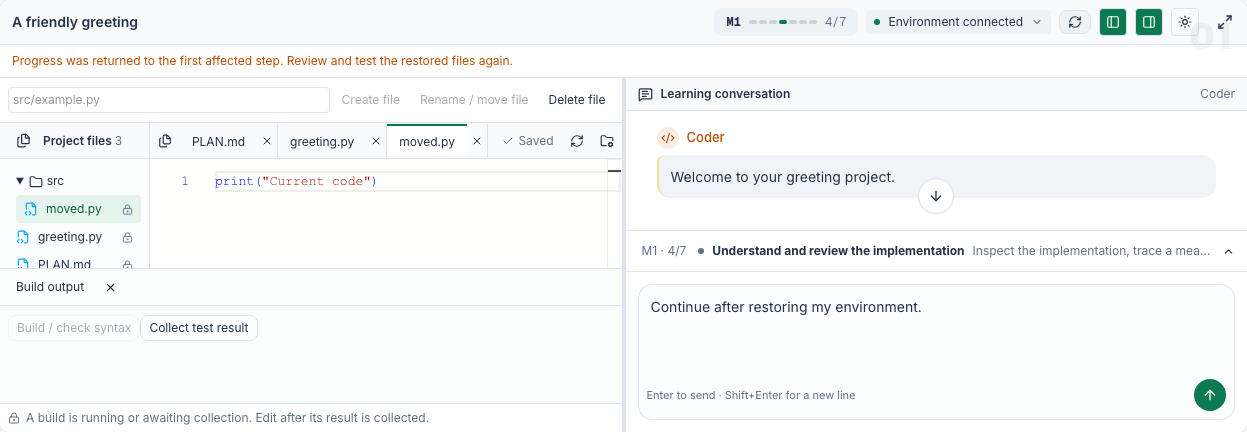
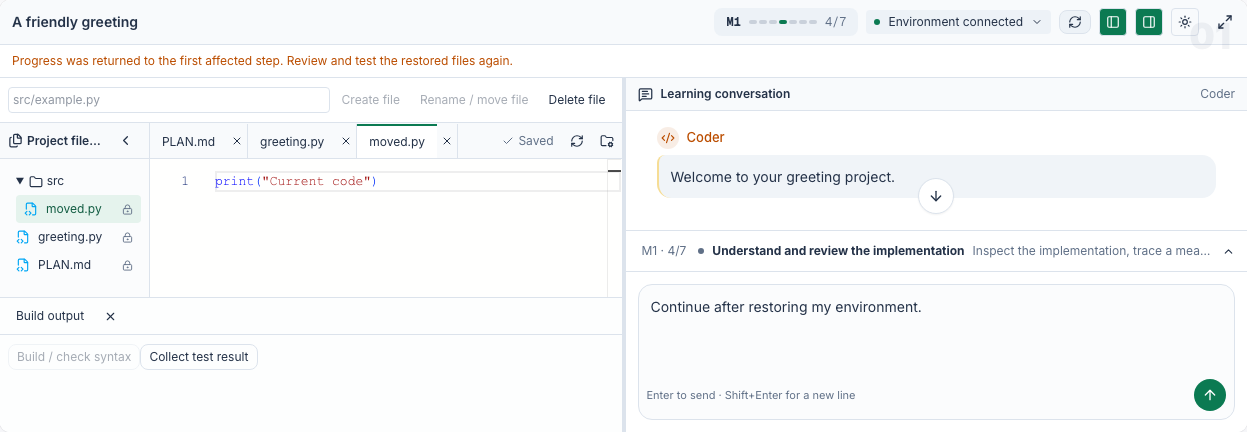
fix(pbl): show editing reasons at cursor and fold file tree

diff --git a/e2e/tests/pbl-v3-workspace.spec.ts b/e2e/tests/pbl-v3-workspace.spec.ts
@@ -465,7 +465,12 @@ test('installed sample opens in the normal classroom and preserves progress afte
   const savesBeforeSwitching = calls.filter((c) => c.type === 'save').length;
   for (let i = 0; i < 2; i++) {
     await page.getByRole('tab', { name: 'PLAN.md', exact: true }).click();
-    await expect(page.getByTestId('pbl-edit-access')).toContainText('PLAN.md is approved');
+    await page.locator('.monaco-editor .view-lines .view-line').first().click();
+    await page.keyboard.press('Backspace');
+    await expect(page.locator('.monaco-editor-overlaymessage')).toContainText(
+      'PLAN.md is approved',
+    );
+    await page.keyboard.press('Escape');
     await page.getByRole('tab', { name: 'greeting.py', exact: true }).click();
     await expect(page.locator('.monaco-editor .view-lines')).toHaveText('print("Saved code")');
   }
@@ -474,12 +479,53 @@ test('installed sample opens in the normal classroom and preserves progress afte
   view.busy = true;
   view.revision++;
   await page.getByRole('button', { name: 'Refresh progress', exact: true }).click();
-  await expect(page.getByTestId('pbl-edit-access')).toContainText('The assistant is working');
+  await page.locator('.monaco-editor .view-lines .view-line').first().click();
+  await page.keyboard.type('x');
+  await expect(page.locator('.monaco-editor-overlaymessage')).toContainText(
+    'The assistant is working',
+  );
+  await expect(page.getByTestId('pbl-edit-access')).toHaveCount(0);
+  await expect(page.locator('.monaco-editor .view-lines')).toHaveText('print("Saved code")');
+  const lockMessage = page.locator('.monaco-editor-overlaymessage');
+  await expect.poll(() => lockMessage.evaluate((el) => getComputedStyle(el).opacity)).toBe('1');
+  await expect(lockMessage).toBeInViewport();
+  expect(
+    await lockMessage.locator('.message').evaluate((el) => {
+      const box = el.getBoundingClientRect();
+      return el.contains(document.elementFromPoint(box.x + box.width / 2, box.y + 3));
+    }),
+  ).toBe(true); // The first-line hint must not be clipped by the resizable panel.
+  await page
+    .getByTestId('pbl-v3-workspace')
+    .screenshot({ path: 'test-results/pbl-v3-readonly.png' });
+  await page.keyboard.press('Escape');
+  await expect(page.locator('.monaco-editor-overlaymessage')).not.toBeVisible();
+  await page.keyboard.type('y');
+  await expect(page.locator('.monaco-editor-overlaymessage')).toContainText(
+    'The assistant is working',
+  );
+  await page.keyboard.press('Escape');
   await expect(page.locator('.monaco-editor textarea').first()).not.toBeEditable();
   view.busy = false;
   view.revision++;
   await page.getByRole('button', { name: 'Refresh progress', exact: true }).click();
   await expect(page.locator('.monaco-editor textarea').first()).toBeEditable();
+  const hideFiles = page.getByRole('button', { name: 'Hide file tree', exact: true });
+  const fileHeader = hideFiles.locator('..');
+  await expect(fileHeader).toContainText('Project files');
+  const editorWidth = (await page.locator('.monaco-editor').boundingBox())!.width;
+  await hideFiles.click();
+  const showFiles = page.getByRole('button', { name: 'Toggle file explorer', exact: true });
+  await expect(showFiles).toBeVisible();
+  await expect
+    .poll(async () => (await page.locator('.monaco-editor').boundingBox())!.width)
+    .toBeGreaterThan(editorWidth);
+  await expect(page.locator('.monaco-editor .view-lines')).toHaveText('print("Saved code")');
+  await expect(page.locator('.monaco-editor textarea').first()).toBeEditable();
+  await showFiles.click();
+  await expect(hideFiles).toBeVisible();
+  await expect(showFiles).toHaveCount(0);
+  expect(calls.filter((c) => c.type === 'save')).toHaveLength(savesBeforeSwitching);
   await page.getByRole('button', { name: 'Manage source files' }).click();
   await page.getByLabel('Project-relative file path').fill('src/new.py');
   let releaseCreate!: () => void;
@@ -530,7 +576,13 @@ test('installed sample opens in the normal classroom and preserves progress afte
   await page.getByRole('button', { name: 'Refresh progress', exact: true }).click();
   await expect(page.locator('.monaco-editor .view-lines')).toHaveText('Unsaved learner work');
   await expect(page.locator('.monaco-editor textarea').first()).not.toBeEditable();
-  await expect(page.getByText('The environment or file changed.', { exact: false })).toBeVisible();
+  await page.locator('.monaco-editor .view-lines .view-line').first().click();
+  await page.keyboard.type('x');
+  await expect(page.locator('.monaco-editor-overlaymessage')).toContainText(
+    'The environment or file changed.',
+  );
+  await expect(page.locator('.monaco-editor .view-lines')).toHaveText('Unsaved learner work');
+  await page.keyboard.press('Escape');
   page.once('dialog', (dialog) => dialog.accept());
   await page.getByRole('button', { name: 'Discard changes and reload' }).click();
   await expect(page.locator('.monaco-editor .view-lines')).toHaveText('print("Current code")');

diff --git a/components/scene-renderers/pbl/v3/workbench-panel.tsx b/components/scene-renderers/pbl/v3/workbench-panel.tsx
@@ -13,8 +13,8 @@ import {
   LoaderCircle,
   Check,
   AlertCircle,
-  LockKeyhole,
-  Pencil,
+  ChevronLeft,
+  PanelLeftOpen,
 } from 'lucide-react';
 import { PendingAction } from './pending-action';
 import { projectEditAccess } from '@/lib/pbl/v3/edit-access';
@@ -89,6 +89,7 @@ export function LearningWorkbenchPanel({
     }
   }, [showEvaluation]);
   const explorer = usePanelRef();
+  const [filesCollapsed, setFilesCollapsed] = useState(false);
   const executionSequence = useRef(0),
     current = useRef(view);
   current.current = view;
@@ -315,24 +316,24 @@ export function LearningWorkbenchPanel({
             minSize="15%"
             maxSize="45%"
             collapsible
+            collapsedSize="0%"
+            onResize={({ asPercentage }) => setFilesCollapsed(asPercentage === 0)}
             className="h-full bg-muted/20"
           >
-            <header className="flex shrink-0 flex-wrap items-center gap-1 border-b pbl-chrome px-2 py-1">
-              <button
-                className={button}
-                aria-label={t('pblV3.ide.hideFiles')}
-                title={t('pblV3.ide.toggleFiles')}
-                onClick={() => {
-                  if (explorer.current?.isCollapsed()) explorer.current.expand();
-                  else explorer.current?.collapse();
-                }}
-              >
-                <Files size={15} />
-              </button>
-              <span className="mr-auto text-xs font-semibold">
+            <header className="flex shrink-0 items-center gap-1 border-b pbl-chrome px-2 py-1">
+              <Files size={15} className="shrink-0" aria-hidden="true" />
+              <span className="mr-auto min-w-0 truncate text-xs font-semibold">
                 {t('pblV3.files')}{' '}
                 <span className="font-normal text-muted-foreground">{view.files.length}</span>
               </span>
+              <button
+                className={button}
+                aria-label={t('pblV3.ide.hideFiles')}
+                title={t('pblV3.ide.hideFiles')}
+                onClick={() => explorer.current?.collapse()}
+              >
+                <ChevronLeft size={15} />
+              </button>
             </header>
             <FileExplorer
               files={view.files}
@@ -350,17 +351,16 @@ export function LearningWorkbenchPanel({
           />
           <Panel id="editor" minSize="45%" className="flex h-full min-w-0 flex-col">
             <div className="pbl-chrome flex min-h-9 shrink-0 items-center border-b">
-              <button
-                className={button}
-                aria-label={t('pblV3.ide.toggleFiles')}
-                onClick={() =>
-                  explorer.current?.isCollapsed()
-                    ? explorer.current.expand()
-                    : explorer.current?.collapse()
-                }
-              >
-                <Files size={14} />
-              </button>
+              {filesCollapsed && (
+                <button
+                  className={button}
+                  aria-label={t('pblV3.ide.toggleFiles')}
+                  title={t('pblV3.ide.toggleFiles')}
+                  onClick={() => explorer.current?.expand()}
+                >
+                  <PanelLeftOpen size={14} />
+                </button>
+              )}
               <div
                 role="tablist"
                 aria-label={t('pblV3.ide.openFiles')}
@@ -452,6 +452,7 @@ export function LearningWorkbenchPanel({
                   path={path}
                   value={buffer.text}
                   readOnly={!canSave}
+                  readOnlyReason={t(`pblV3.editAccess.${editReason}`)}
                   onChange={editor.edit}
                   onSave={save}
                 />
@@ -595,18 +596,6 @@ export function LearningWorkbenchPanel({
           </div>
         </div>
       )}
-      <footer
-        role="status"
-        data-testid="pbl-edit-access"
-        className="flex shrink-0 items-start gap-1.5 border-t px-2 py-1.5 text-xs text-muted-foreground"
-      >
-        {canSave ? (
-          <Pencil size={12} className="mt-0.5 shrink-0" />
-        ) : (
-          <LockKeyhole size={12} className="mt-0.5 shrink-0" />
-        )}
-        <span>{t(`pblV3.editAccess.${editReason}`)}</span>
-      </footer>
     </section>
   );
 }

diff --git a/components/scene-renderers/pbl/v3/code-editor.tsx b/components/scene-renderers/pbl/v3/code-editor.tsx
@@ -11,6 +11,7 @@ export function CodeEditor({
   path,
   value,
   readOnly,
+  readOnlyReason,
   onChange,
   onSave,
 }: {
@@ -18,6 +19,7 @@ export function CodeEditor({
   path: string;
   value: string;
   readOnly: boolean;
+  readOnlyReason: string;
   onChange: (text: string) => void;
   onSave: () => void;
 }) {
@@ -69,6 +71,17 @@ export function CodeEditor({
       loading={<p className="p-4 text-sm text-muted-foreground">{t('pblV3.loading')}</p>}
       onChange={handleChange}
       onMount={(editor, monaco) => {
+        // The native readonly textarea suppresses character/paste input events.
+        // Route those attempts through Monaco so its cursor-side message still appears.
+        const attempt = editor.onKeyDown(({ browserEvent: event }) => {
+          if (!editor.getOption(monaco.editor.EditorOption.readOnly)) return;
+          const command = event.metaKey || event.ctrlKey;
+          const typing = event.key.length === 1 && !command && !event.altKey;
+          const clipboard = command && ['v', 'x'].includes(event.key.toLowerCase());
+          if (typing || clipboard || event.isComposing || event.key === 'Process')
+            editor.trigger('readonly-keyboard', 'type', { text: event.key });
+        });
+        editor.onDidDispose(() => attempt.dispose());
         editor.addAction({
           id: 'pbl-save-file',
           label: t('pblV3.saveFile'),
@@ -78,9 +91,11 @@ export function CodeEditor({
       }}
       options={{
         readOnly,
+        readOnlyMessage: { value: readOnlyReason },
         domReadOnly: readOnly,
         ariaLabel: t('pblV3.editor'),
         automaticLayout: true,
+        fixedOverflowWidgets: true,
         minimap: { enabled: false },
         fontSize: 13,
         lineHeight: 21,

diff --git a/components/scene-renderers/pbl/v3/workbench.css b/components/scene-renderers/pbl/v3/workbench.css
@@ -91,3 +91,16 @@
     flex-basis: 100%;
   }
 }
+
+/* Keep Monaco's cursor-side lock message compact and consistent with the workbench. */
+.pbl-workbench .monaco-editor-overlaymessage .message {
+  max-width: min(360px, calc(100vw - 32px));
+  padding: 6px 9px;
+  border-color: var(--border);
+  border-radius: 6px;
+  background: var(--popover);
+  color: var(--popover-foreground);
+  font-size: 12px;
+  line-height: 1.5;
+  box-shadow: 0 2px 8px rgb(0 0 0 / 0.12);
+}

diff --git a/lib/pbl/v3/READINESS.md b/lib/pbl/v3/READINESS.md
@@ -41,13 +41,13 @@ and the real-PG scripted-runner journeys in `runtime.pg.test.ts`.
 | --- | --- | --- |
 | Progression and tool receipts | Seven steps, validate-before-completing, real feedback, cancellation/takeover fences, mixed-tool batches, automatic openings, ordinary follow-ups and no generic-API bypass. | Keep these gates; full scripted journeys verify them with the report boundary. Do not reimplement the runner. |
 | Private materials | Owner and role-scoped project resources and structured public assessment diagnostics. | Keep expected output out of sandbox arguments and evaluation descriptors out of test support. Suppress raw thinking server-side for both live projection and replay; retain status, timing and tools. Report evidence strips private protocol and transport fields. |
-| Workbench layout | Left IDE/right assistant, file tree/tabs/editor, terminal/output/preview, normal and expanded scene, light/dark styles and contextual controls. | Restore debounced automatic file saving with compact status; remove the learner checkpoint button and application preview; hide shell/terminal controls behind a fixed-off activity flag while retaining build/test feedback. Fix compact solo-pane height. Preserve study-scoped files/chat/quiz drafts and pane visibility; refuse stale environment writes and preserve newer typing across late acknowledgements. |
+| Workbench layout | Left IDE/right assistant, file tree/tabs/editor, terminal/output/preview, normal and expanded scene, light/dark styles and contextual controls. | Restore debounced automatic file saving with compact status; remove the learner checkpoint button and application preview; hide shell/terminal controls behind a fixed-off activity flag while retaining build/test feedback. Fix compact solo-pane height; collapse the file tree independently from its own header while retaining the editor buffer. Preserve study-scoped files/chat/quiz drafts and pane visibility; refuse stale environment writes and preserve newer typing across late acknowledgements. |
 | Current-task controls | Actual milestone/step, no empty drawer for teaching/recap, current decisions/artifacts/tests/quiz only, green usable actions and disabled reasons. | Hide unknown 0/0 counts, preserve full tab names, fix incomplete-quiz submission, verify task drawer close/Escape/focus and composer usability in short and narrow viewports. |
 | Agent interaction | Waiting/thinking/tools/text/status order, role colors and stage dividers, snapshot replacement, copy, fold, send re-anchor, manual history scroll, cancel and retry. | Thinking text is withheld without removing its status/timer. Keep animated feedback through request admission, queued work and gaps between text/tool parts until the turn settles. Test status covers admission, execution and result collection, including explicit failure/retry. Browser fixtures retain the baseline behaviors and check drafts after actual scene unmount and reload. |
 | Terminal contention | Existing identity, environment epoch, terminal identity, Stop and stage boundaries. | Avoid the long study lock per keystroke. Retry only confirmed pre-dispatch `ENVIRONMENT_BUSY`, with a finite budget; never replay unknown input. The actual workbench request transport preserves the error reason consumed by that retry logic. |
 | Hosted entry and restore | Same durable allocation identity and saved learning progress. | Entry automatically prepares the installed project's environment, reuses a ready workspace, and opens teaching without a setup click. Setup is attempted once per observed environment on entry, with explicit retry after failure. Inspection remains read-only; scoped setup owns restore. Completed reports do not boot a sandbox. |
 | Project application preview | The baseline included a workbench tab, default ports and study-bound gateway grants. | Remove these v3 features and their wiring entirely. Old learning preview tickets are denied. Generic sandbox preview remains separate; the actual course frontend is later integration work. |
-| Editing permissions | Stage actions and active Agent execution restrict writes. | Share stage/writer/evaluation gates across the IDE, workbench and host saves. Show distinct read-only reasons. Failed-test coder repair remains in the test step; running tests/builds also fence Agent write tools. |
+| Editing permissions | Stage actions and active Agent execution restrict writes. | Share stage/writer/evaluation gates across the IDE, workbench and host saves. Show distinct read-only reasons through Monaco's cursor-side message on an editing attempt, without a permanent footer. Failed-test coder repair remains in the test step; running tests/builds also fence Agent write tools. |
 | Request feedback | Many operations only disabled controls until their response returned. | Immediately show operation-specific loading/waiting feedback; select file tabs immediately, acknowledge pending decisions and roll them back on failure. Server receipts still own progress and results. |
 | CI configuration | Existing workflows and integration targets. | Remove only the obsolete workspace-contract feature branch entries. |
 | Cross-milestone work | Same source workspace, incremental PLAN, project/milestone role context, source fingerprinting and explicit checkpoints. | Current Python and Java samples each have two normal seven-step milestones. Real-PG/local-toolchain journeys cover edit/run/stop/save/review/tests/next/restore, newly created sources, stale evidence and recovery to an earlier repairable position. No zero-loss promise for unsaved remote work. |

diff --git a/lib/pbl/v3/WORKBENCH.md b/lib/pbl/v3/WORKBENCH.md
@@ -8,7 +8,9 @@ has an explicit retry; completed projects can reopen reports without a sandbox.
 ## Layout and feedback
 
 The IDE is on the left; conversation, current-step controls and composer are on the
-right. Both panels can be resized or hidden. The header panorama lists milestones;
+right. Both panels can be resized or hidden. The file tree folds independently using
+the left arrow at the right edge of its Project files header. When folded, an
+expand control appears at the start of the editor tabs; the current buffer stays mounted. The header panorama lists milestones;
 the progress control above the composer lists the current milestone's steps.
 Task details open above the composer, with bounded height and internal scrolling.
 
@@ -40,8 +42,10 @@ outside this change; the generic shared sandbox facilities remain separate.
 ## Editing boundaries
 
 `projectEditAccess` is shared by the editor, workbench permissions and host file-save
-admission. The IDE displays its current lock reason instead of leaving an unexplained
-read-only editor. These rules follow the existing OpenPBL stage/writer boundaries:
+admission. Attempting to edit a locked file opens Monaco's existing inline message
+next to the cursor with the current localized reason. The message uses the editor's
+light/dark theme and dismisses on Escape, blur or cursor movement. No persistent
+lock-reason footer consumes editor height. These rules follow the existing OpenPBL stage/writer boundaries:
 
 | Step/state | Student file access |
 | --- | --- |
